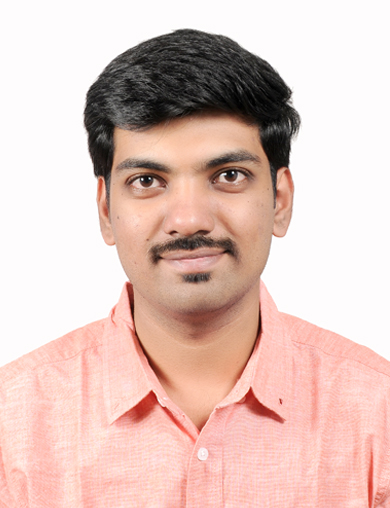
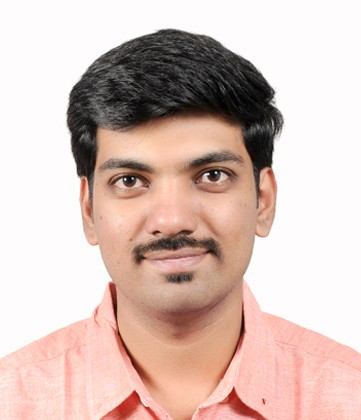
Updated about me

diff --git a/GaganBelgurPortfolio/css/hero.css b/GaganBelgurPortfolio/css/hero.css
@@ -1,4 +1,4 @@
-.hero {
+/* .hero {
     background: linear-gradient(135deg, var(--brand-blue), var(--brand-orange));
     color: #fff;
     padding: 90px 0 70px;
@@ -16,13 +16,21 @@
 }
 
 .hero .avatar {
-    width: 160px;
-    height: 160px;
-    object-fit: cover;
-    border-radius: 80%;
-    border: 4px solid #fff;
-    box-shadow: 0 6px 18px rgba(0, 0, 0, .2);
+    width: 200px;
+    height: 200px;
+    object-fit: cover;            
+    border-radius: 50%;           
+    border: 4px solid #fff;       
+    box-shadow: 0 6px 18px rgba(0, 0, 0, 0.2); 
+    display: block;
+    margin: 0 auto;               
+    transition: transform 0.3s ease; 
 }
+
+.hero .avatar:hover {
+    transform: scale(1.05);      
+}
+
 
 .hero h1 {
     font-weight: 800;
@@ -43,4 +51,99 @@
 .btn-accent:hover {
     background: #e26e0b;
     color: #fff;
+} */
+
+.hero {
+    padding: 60px 20px;
+    display: flex;
+    justify-content: center;
+    align-items: center;
+}
+
+.hero-inner {
+    display: flex;
+    align-items: center;
+    gap: 40px;
+    flex-wrap: wrap;
+}
+
+.hero-avatar {
+    flex-shrink: 0;
+}
+
+.hero .avatar {
+    width: 160px;
+    height: 160px;
+    object-fit: cover;
+    border-radius: 50%;
+    border: 4px solid #fff;
+    box-shadow: 0 6px 18px rgba(0, 0, 0, 0.2);
+    transition: transform 0.3s ease;
+}
+
+.hero .avatar:hover {
+    transform: scale(1.05);
+}
+
+.hero-text {
+    max-width: 600px;
+}
+
+.hero-text h1 {
+    font-size: 2rem;
+    margin-bottom: 15px;
+    font-weight: 600;
+}
+
+.hero-text p {
+    font-size: 1rem;
+    line-height: 1.6;
+    color: #555;
+    margin-bottom: 20px;
+}
+
+.hero-buttons {
+    display: flex;
+    gap: 15px;
+}
+
+.hero-buttons .btn {
+    padding: 10px 20px;
+    border-radius: 6px;
+    text-decoration: none;
+    font-weight: 500;
+    transition: background 0.3s ease, color 0.3s ease;
+}
+
+.hero-buttons .btn-primary {
+    background: #007BFF;
+    color: #fff;
+}
+
+.hero-buttons .btn-primary:hover {
+    background: #0056b3;
+}
+
+.hero-buttons .btn-outline {
+    border: 1px solid #007BFF;
+    color: #007BFF;
+    background: transparent;
+}
+
+.hero-buttons .btn-outline:hover {
+    background: #007BFF;
+    color: #fff;
+}
+
+/* Responsive */
+@media (max-width: 768px) {
+    .hero-inner {
+        flex-direction: column;
+        align-items: center;
+        text-align: center;
+    }
+
+    .hero-text {
+        max-width: 100%;
+    }
 }

diff --git a/GaganBelgurPortfolio/sections/header.html b/GaganBelgurPortfolio/sections/header.html
@@ -1,5 +1,22 @@
 <div class="container">
-    <img class="avatar" src="images/placeholder.jpg" alt="Your photo" />
+    <!-- <img class="avatar" src="images/placeholder.jpg" alt="Your photo" />
     <h1>GAGAN BELGUR</h1>
-    <h3>Software Engineer - Mobile Application Developer</h3>
+    <h3>Software Engineer - Mobile Application Developer</h3> -->
+
+     <div class="hero-inner">
+        <!-- Avatar -->
+        <div class="hero-avatar">
+            <img class="avatar" src="images/placeholder.jpg" alt="Gagan Belgur" />
+        </div>
+
+        <!-- About Me -->
+        <div class="hero-text">
+            <h1>Hi, I'm Gagan Belgur</h1>
+           
+            <!-- <div class="hero-buttons">
+                <a href="#projects" class="btn btn-primary">View Projects</a>
+                <a href="#contact" class="btn btn-outline">Contact Me</a>
+            </div> -->
+        </div>
+    </div>
 </div>

diff --git a/GaganBelgurPortfolio/sections/about.html b/GaganBelgurPortfolio/sections/about.html
@@ -1,7 +1,7 @@
 <div class="container">
-    <h2 class="section-title">About</h2>
+    <h2 class="section-title">About Me</h2>
     <div class="skill-card">
-         <p class="card-text">Hi, I’m Gagan Belgur. I started my journey in mobile development because
+         <p class="card-text">I started my journey in mobile development because
             I’ve always been fascinated by how apps can connect people and devices in meaningful ways. Over the years,
             I’ve worked on apps that help patients monitor medical devices, families breathe cleaner air, and millions
             of users manage their banking.
